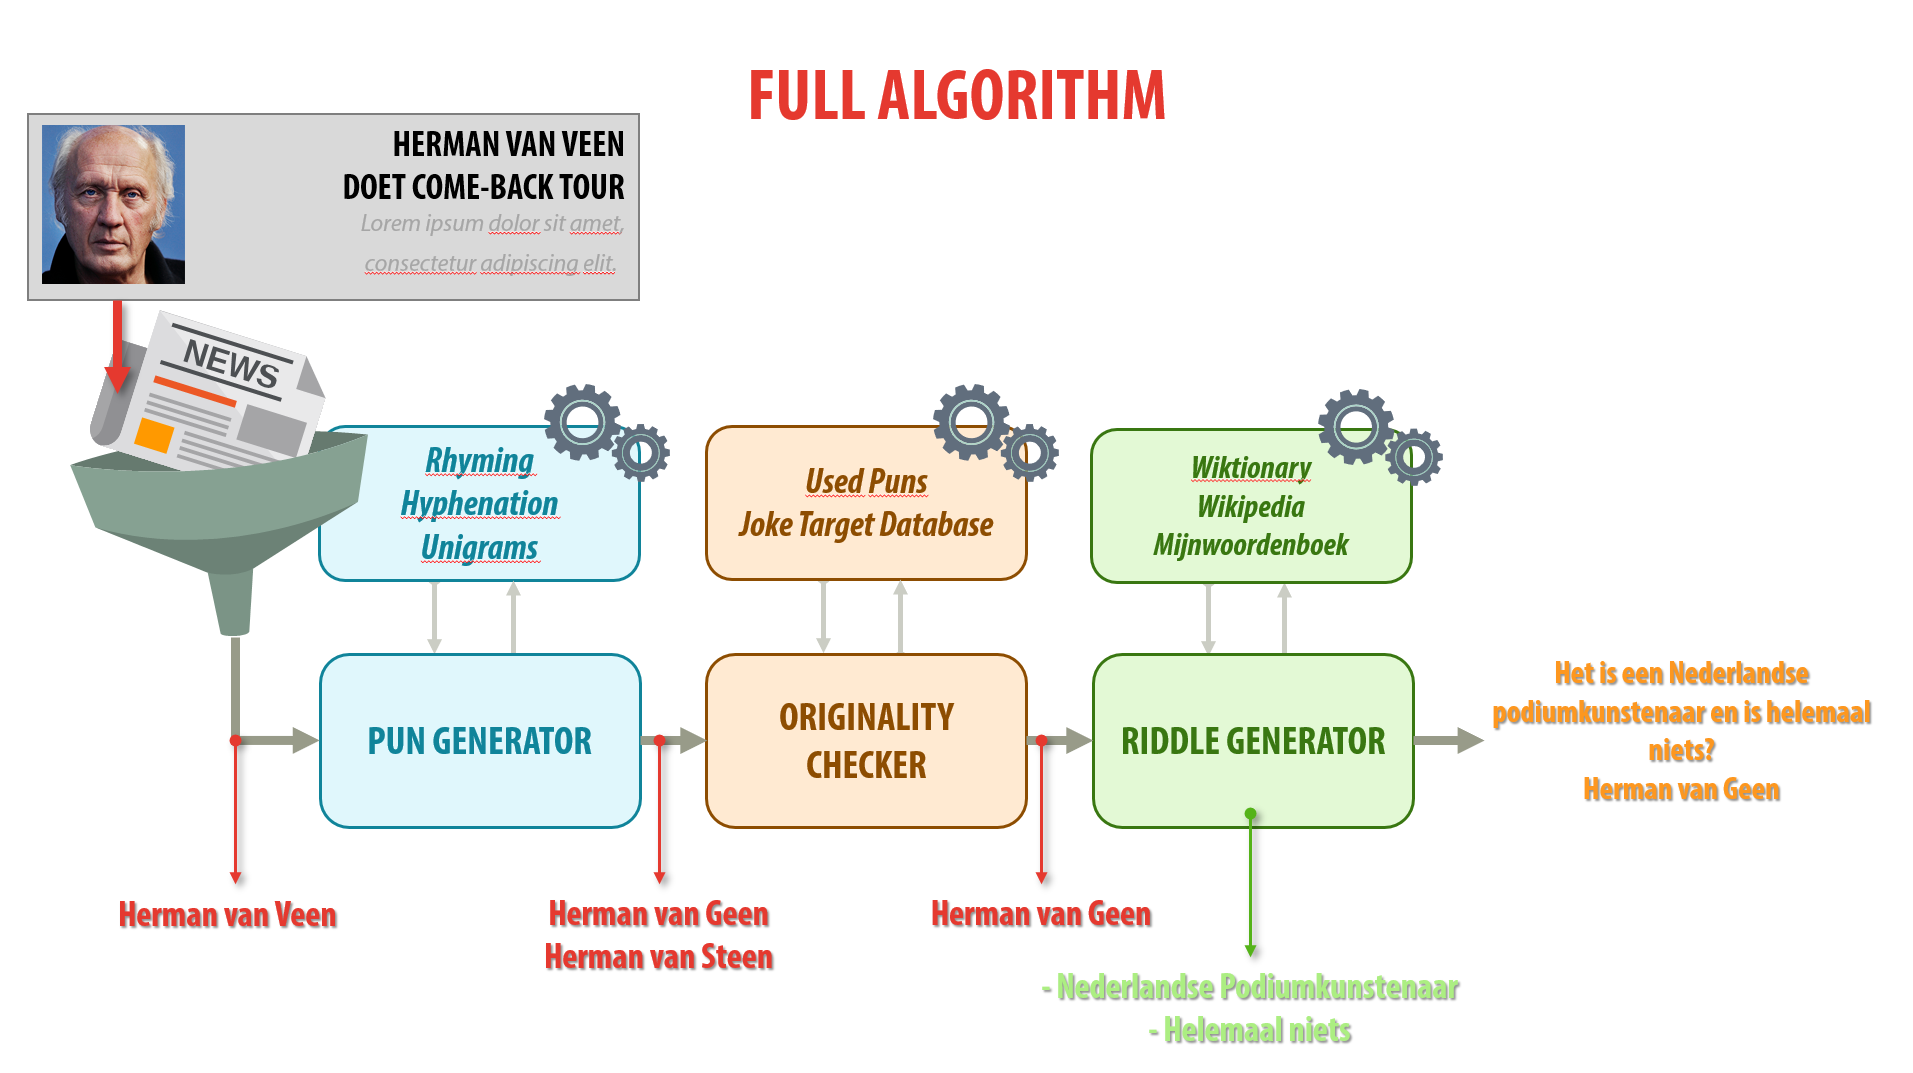
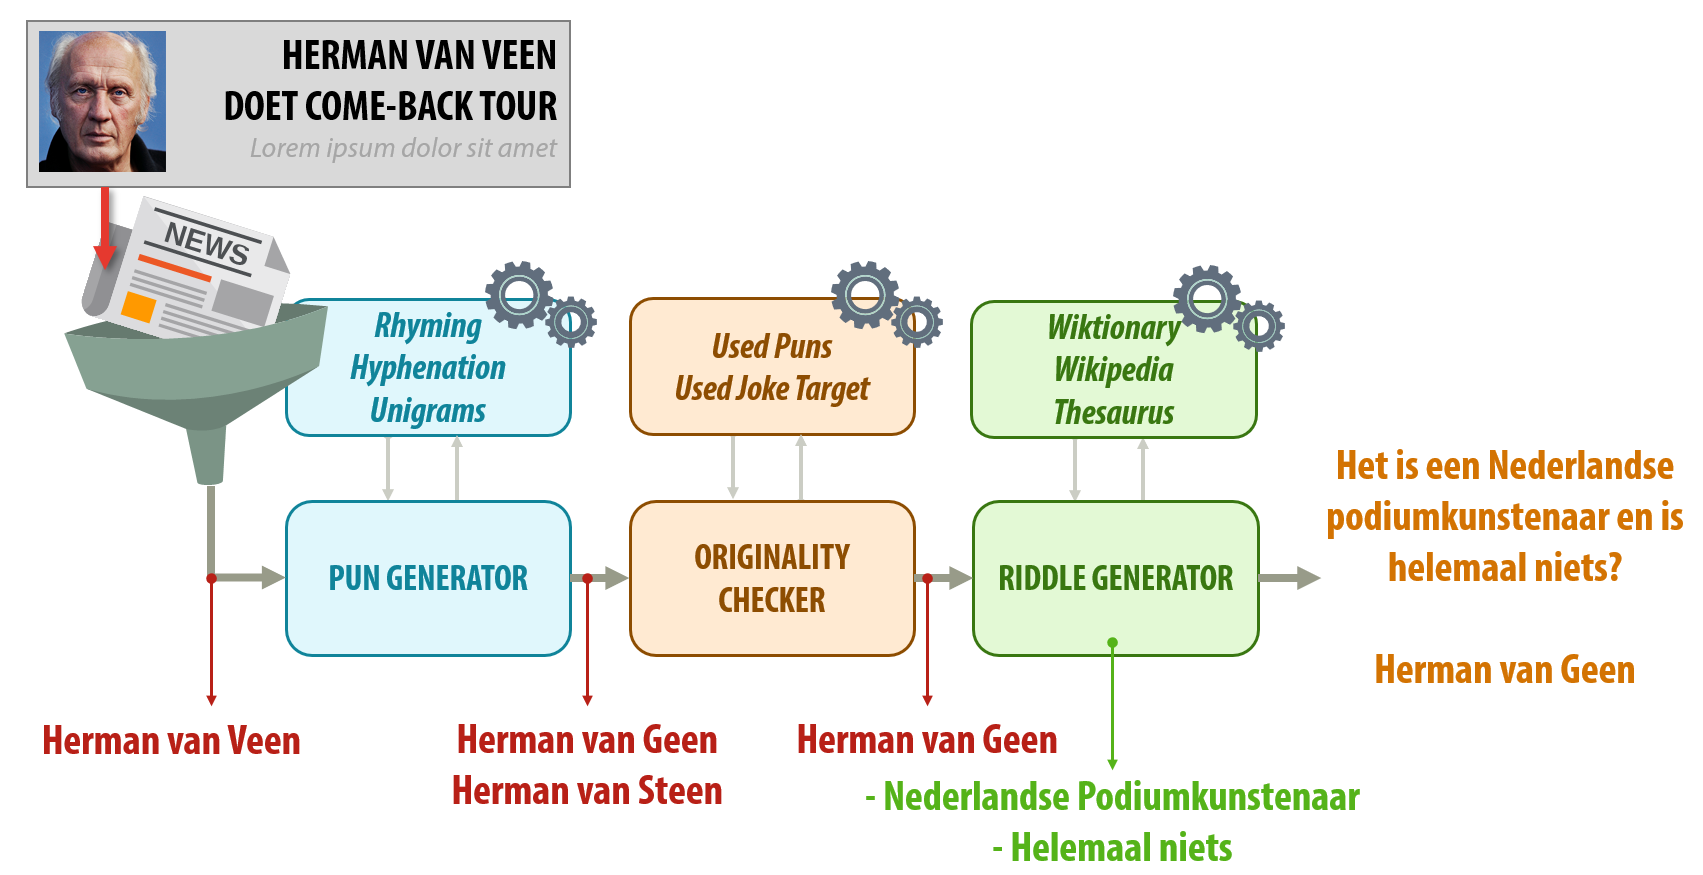
Created article about computatoinal humor

Changed region(s): [[0.0, 0.0, 0.9959, 0.9874], [0.3735, 0.0617, 0.6224, 0.1234], [0.0, 0.8023, 0.1867, 0.864]]

diff --git a/content/post/thomas-winters/computational_humor_mopjesbot/index.md b/content/post/thomas-winters/computational_humor_mopjesbot/index.md
@@ -1,8 +1,8 @@
 ---
 # Documentation: https://sourcethemes.com/academic/docs/managing-content/
 
-title: "Can computers create jokes? [DRAFT]"
-subtitle: "The range of tasks Artificial Intelligenge can fulfill keeps strongly growing, but will an AI ever understand how to successfully create jokes?"
+title: "Can computers create jokes?"
+subtitle: "The range of tasks Artificial Intelligenge can fulfill keeps strongly growing, but will an AI ever understand how to successfully create jokes? And if so, how?"
 summary: ""
 authors: ["Thomas Winters"]
 tags: ["Computational Humor", "Computational Creativity"]
@@ -32,8 +32,9 @@ projects: []
 
 Can computers be funny?
 Certainly your virtual assistant (e.g. *Siri* or *Alexa*) is able to tell a joke if you ask for one, but these are of course pre-written, human-made jokes.
-One might wonder if are computers already advanced enough to understand how to construct good jokes.
-And if they could write jokes, could they do this in any language and about any topic?
+One might wonder if computers are already advanced enough to understand how to construct good jokes.
+And if they can write jokes, can they do this in any language and about any topic?
+And could they tailor their sense of humor to users?
 
 Many researchers have already looked into humor generation algorithms.
 Recent popular neural networks approaches seem to indicate that
@@ -41,7 +42,7 @@ writing good jokes is [still far off](https://towardsdatascience.com/teaching-gp
 Most of the funny things computers create using neural networks, [seem to mostly occur on accident](https://aiweirdness.com/books).
 
 Further in the past, however, more symbolic approaches have been used to generate subjectively better jokes.
-Researchers created programs to for example [generate punning riddles](http://joking.abdn.ac.uk/webversion/welcome.php),
+Researchers created programs to, for example, [generate punning riddles](http://joking.abdn.ac.uk/webversion/welcome.php),
 [create analogy jokes](http://www.infoivy.com/2013/09/big-data-what-joke-generator-that-is.html)
 and [detect double entendres](https://www.popsci.com/technology/article/2011-04/thats-what-she-said-software-recognizes-pervy-double-entendres-automatically/).
 These programs usually define some rules that constitute a funny joke, and then fill in the slots randomly.
@@ -60,50 +61,54 @@ For example, for the above joke, the template would be the same as the joke, but
 > One is a **E** **F**, the other is a **G** **H**.
 
 These holes are then related to each other using rules, which then fill the holes with appropriate words.
-For example: **E** and **G** should end with the same sound, and so should **F** and **H**.
-Similarly, **E** and **H** have to start with the same sound, and so do **F** and **G**.
+For the above template, there are constraints enforcing that **E** and **G** end with the same sound, and so should **F** and **H**.
+Similarly, **E** and **H** start with the same sound, and so do **F** and **G**.
 To create the question of the riddle, four pairs of synonyms are required, namely **A** should be a synonym of **E**, **B** of **F** and so on.
 In a way, the generator is playing [Mad Libs](http://www.madlibs.com/) with itself, but enforcing slightly more logic in the relations between the words.
   
+![mopjesbot](mopjesbot_drawing.jpg)
+
 ### Teaching joke patterns
   
 So while it might be hard to make a computer come up with a broad range of clever jokes completely from scratch,
  we can teach them how to generate specific types of jokes.
-However, not all language have the rich corpora available to pull this off, like the English language does.
-Another problem is that most joke generators use static data sources, and are thus unable to create jokes about topics that are not included in this data, unless they are manually updated.
+However, while many English language resources exist, not all languages possess such plentiful language resources for enforcing and checking linguistic constraints.
+Another problem is that most joke generators use static data sources (e.g. an internal dictionary), and are thus unable to create jokes about topics that are not included in this data, unless they are manually updated.
 Old joke generators might thus not be able to make jokes about new music artists or politicians.
 
-We created [bot](https://twitter.com/MopjesBot) for generating Dutch "Kermit de Kikker" punning riddles, using limited Dutch language resources,
+
+We created [bot](https://twitter.com/MopjesBot) for generating Dutch *"Kermit de Kikker"* punning riddles, using limited Dutch language resources,
 namely [Wikipedia](https://nl.wikipedia.org/), a [thesaurus](https://www.mijnwoordenboek.nl/synoniem.php) (or [Wiktionary](https://nl.wiktionary.org/wiki/Hoofdpagina)),
 [rhyming dictionary](https://www.mijnwoordenboek.nl/rijmwoordenboek/) and [hyphenation](https://www.ushuaia.pl/hyphen/?ln=nl).
-All these resources tend to be available online for most languages.
-The classic *"Kermit de Kikker"* (*Dutch for [Kermit the Frog](https://en.wikipedia.org/wiki/Kermit_the_Frog)*) joke is based on finding rhymes of *Kikker*,
-and suggesting in the riddle what word the listener should look for.
+All these resources tend to be available online for most of the popular languages.
+The classic *"Kermit de Kikker"* (*Dutch for [Kermit the Frog](https://en.wikipedia.org/wiki/Kermit_the_Frog)*) joke is based on finding rhymes of *Kikker* based on what the riddle suggest.
 For example:
 
 > Het is groen en het plakt?
 >
 > Kermit de Sticker
 
-Which is usually followed by a large succession of similar jokes about Kermit, e.g.
+In English, this joke says: *"It's green and adhesive? Kermit the Sticker"*.
+This is a joke because *"sticker"* is a rhyme of *"kikker"*, Dutch for *"frog"*.
+Usually, this joke is followed by a large succession of similar jokes about Kermit, e.g.
 
 > Het is groen en is pyromaan?
 >
 > Kermit de Fikker
 
-As you probably see, this is something we can teach computers to generate for us.
-But why stick with only *Kermit de Kikker* when you can insert any name?
+As you might have realised, this is something we can teach computers to generate for us.
+But why stick with only making jokes about *Kermit de Kikker* when you can insert any name?
 Given the name *Kanye West* as input, it would perform the following steps:
 
 1. [Find a rhyme](https://www.rhymezone.com/r/rhyme.cgi?Word=west&typeofrhyme=perfect&org1=syl&org2=l&org3=y)
 on the last word with the same number of syllables, e.g. *rest* .
-If it has multiple syllables, look for rhymes on any combination of consequent syllables.
+If the last word of the input has multiple syllables, look for rhymes on any combination of consequent syllables.
 Prefer more common words using a word frequency list, if this is available in the language of choice.
 
 2. Replace the relevant syllables of the input name with the rhyme word, e.g. Kanye Rest.
 
 3. Use [Wikipedia](https://wikipedia.org) to find a nice description of the entity with the input name.
-This is not that hard to find, since Wikipedia page entries usually start with *\[page_name\] **is** \[explanation\]*.
+This is not that hard to extract from the Wikipedia page, since the introduction usually start with *\[entity_name\] **is/was/are** \[explanation\]*.
 By taking the part after the *"to be"* verb, and until any punctuation or start of clause, the program can distill a brief description.
 For example, it would describe [Kanye West](https://en.wikipedia.org/wiki/Kanye_West) as *an American rapper*.
 
@@ -122,9 +127,9 @@ For example, it could describe *rest* as *"relief from work"*.
 These jokes tend to become more interesting once you have multiple of them, as they turn into a fun guessing game.
 Luckely, given that we completely automated the generation process, the described program can easily generate many more jokes about this person.
 
-We build a Twitterbot,called [MopjesBot](https://twitter.com/MopjesBot), that generates five unique jokes using this schema on a daily basis.
+We build a Twitterbot, called [MopjesBot](https://twitter.com/MopjesBot), that generates five unique jokes using this schema on a daily basis.
 It first checks the news for articles, then filters out articles about too sensitive topics, and finally picks the name that occurs most in these articles.
-The steps it follows to generate these jokes are summarised in the diagram below:
+The complete overview of all steps it follows to generate these jokes are summarised in the diagram below:
 
 ![mopjesbot overview](mopjesbot_flow.png)
 
@@ -133,23 +138,24 @@ but also nudges the jokes to have a higher probability of having certain charact
   
 ### Learning what constitutes a joke
 
-While it's great that we can already make computers generate jokes using templates and schemas, implementing these require a large amount of human effort.
-It's not really the machine gaining insights into humor, but rather the human giving the machine explicit insights into a specific type of joke.
+While it's wonderful that we can already make computers generate jokes using templates and schemas, implementing such joke generators requires a large amount of human effort.
+The computer is also not really gaining insights into humor itself, but rather the human giving the machine explicit insights into a specific type of joke.
 
 So, could it learn these insights by itself?
-That's one task we want to tackle in the future, which can be subdivided in multiple parts:
-  - can we automatically extract relations between words
-  - can we then find out which are better by learning probabilities, with similar "nudging" functions?
+This is one task we want to tackle in the future, which can be subdivided in multiple parts:
+  - can we automatically extract meaningful relations between words of a good joke?
+  - can we find out which jokes are better than others by learning probabilities, and use these to "nudge" the generators into generating better jokes?
   
 The former is something we have [explored in the past](https://www.researchgate.net/publication/325432136_Automatic_Joke_Generation_Learning_Humor_from_Examples), and are still actively investigating.
 The latter task could be achieve using preference learning.
-[Preference learning](https://en.wikipedia.org/wiki/Preference_learning) is a task where given a set of two data points, the algorithm has to guess which one is prefered by a human.
-For this, a human first has to specify for many examples which one out of two possibilities they prefer.
-By just joining the attributes of the two data points and adding 0 if the left one is prefered and 1 otherwise, this become a binary classification problem.
-The trained model is then a comparator that can be used to sort lists of these data points, if the type of model is chosen correctly.
+[Preference learning](https://en.wikipedia.org/wiki/Preference_learning) is a task where given a set of two data points, the algorithm has to predict which one is preferred by a human.
+This could then be used to find optimal parameters to contruct a joke that a particular user or group of users might like.
 
-For our case, this would mean that a model would learn which out of two jokes (or parameters to construct a joke) it would prefer.
-Since we know the rules constructing this joke, we could then derive information about which rules are causing better jokes in what situations.
+The future of automatic joke generation is thus exciting, and still full of opportunities.
+We can already create joke generation algorithms by hand and getting close to learn them automatically.
+In the future, we might not need to listen to pre-written jokes told by Siri any more, and instead could enjoy personalised, generated humor.
+Or, as our algorithm might say:
 
-However, this is all still work for in the future.
-For now, we will have to just keep on writing the joke generators ourselves, or just listen to pre-written jokes told by Siri.
+> It's a branch of artificial intelligence which uses computers in humor research and is a claim of questionable accuracy?
+>
+> Computational Rumor
